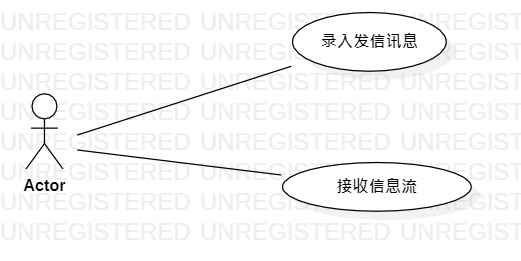
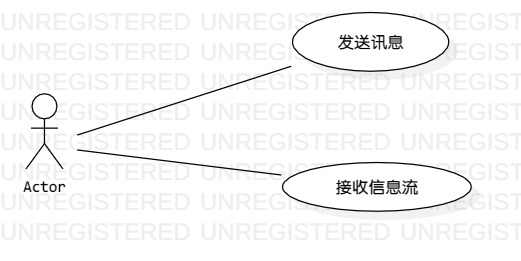
实验三 过程建模 和 实验二 用例建模的补充

diff --git a/students/1714080902512/lab2.md b/students/1714080902512/lab2.md
@@ -34,25 +34,25 @@
 
 ![UseCaseDiagram1](./UseCaseDiagram1.jpg)
 
-表1 录入发信讯息之用例规约
+表1 发送讯息之用例规约
 
-| 用例编号 | UC01                                       | 备注     |
-| -------- | ------------------------------------------ | -------- |
-| 用例名   | 录入发信讯息                               |          |
-| 前置条件 | 用户登入局域网通讯系统                     |          |
-| 后置条件 | 用户进入发信界面                           |          |
-| 基本流程 | 1.用户点击发信按钮                         | 成功执行 |
-|          | 2.系统显示发信页面                         |          |
-|          | 3.用户填入收信人、待发消息，点击发信按钮   |          |
-|          | 4.系统检测收信地址是否合理，发送讯息       |          |
-|          | 5.系统显示成功发送页面                     |          |
-| 扩展流程 | 4.1 系统发现收信地址非法，提示用户重新输入 | 执行错误 |
+| 用例编号 | UC01                                                         | 备注     |
+| -------- | ------------------------------------------------------------ | -------- |
+| 用例名   | 发送讯息                                                     |          |
+| 前置条件 | 用户登入局域网通讯系统                                       |          |
+| 后置条件 | 用户进入发信界面                                             |          |
+| 基本流程 | 1.用户点击发信按钮                                           | 成功执行 |
+|          | 2.系统显示发信页面                                           |          |
+|          | 3.用户填入收信人、待发消息，点击发信按钮                     |          |
+|          | 4.系统检测收信地址合理，保存收信人、待发消息、发送时间于本地操作数据库，然后发送讯息 |          |
+|          | 5.系统显示成功发送页面                                       |          |
+| 扩展流程 | 4.1 系统发现收信地址非法，提示用户重新输入                   | 执行错误 |
 
-表2 接收信息流之用例规约
+表2 接收信息之用例规约
 
 | 用例编号 | UC02                                           | 备注     |
 | -------- | ---------------------------------------------- | -------- |
-| 用例名   | 接收信息流                                     |          |
+| 用例名   | 接收信息                                       |          |
 | 前置条件 | 用户登入局域网通讯系统                         | *可选    |
 | 后置条件 | 用户进入收信界面                               | *可选    |
 | 基本流程 | 1.用户点击收信按钮                             | 成功执行 |

diff --git a/students/1714080902512/lab3.md b/students/1714080902512/lab3.md
@@ -1,0 +1,22 @@
+# 实验三
+
+## 实验目标
+
+1. 掌握过程建模方法；
+2. 掌握活动图的画法。（Activity Diagram）
+
+## 实验步骤
+
+1. 把基本流程和扩展流程的动作画为操作（Action）；
+2. 在出现分支的操作之后使用决策（Decision）节点。
+
+## 实验结果
+
+画图,如图所示。
+
+01发送讯息的活动图![ActivityDiagram1](E:\STU\大三下\UML\uml-modeling-2020\students\1714080902512\ActivityDiagram1.jpg)
+
+02接收信息的活动图
+
+![ActivityDiagram2](E:\STU\大三下\UML\uml-modeling-2020\students\1714080902512\ActivityDiagram2.jpg)
+
